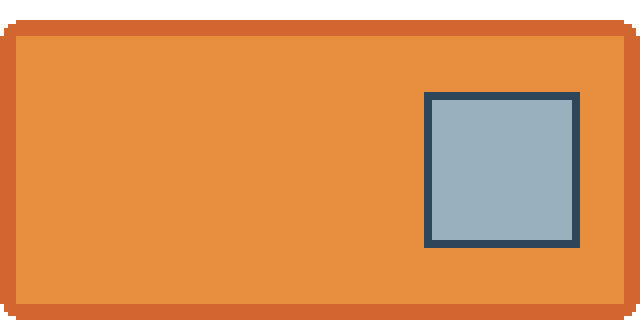
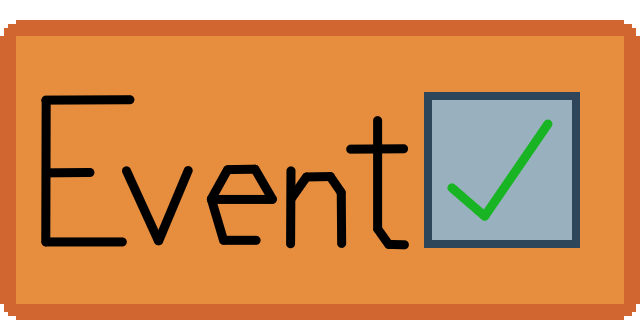
Fixed event button
Restructured event button and round button
Added text to event button and round button

Changed region(s): [[0.0625, 0.2812, 0.6562, 0.7812], [0.6875, 0.375, 0.875, 0.6875]]

diff --git a/EventButton.java b/EventButton.java
@@ -8,9 +8,8 @@ import greenfoot.*; // (World, Actor, GreenfootImage, Greenfoot and MouseInfo)
  */
 public class EventButton extends Button {
   boolean ifDiscbetion = true;
-  private GreenfootImage unclickedEventButton =
-      new GreenfootImage("Button/eventButton_unpressed.png");
-  private GreenfootImage clickedEventButton = new GreenfootImage("Button/eventButton_pressed.png");
+  private GreenfootImage unclickedEventButton;
+  private GreenfootImage clickedEventButton;
 
   /**
    * Act - do whatever the EventButton wants to do. This method is called whenever the 'Act' or
@@ -18,15 +17,26 @@ public class EventButton extends Button {
    */
   public EventButton() {
     super(true);
+    toggleState = false;
+    clickedEventButton = new GreenfootImage("button/eventButton_pressed.png");;
+    unclickedEventButton = new GreenfootImage("button/eventButton_unpressed.png");
+    clickedEventButton.scale(216, 100);
+    unclickedEventButton.scale(216, 100);
+    setImage(unclickedEventButton);
   }
 
   public void act() {
     if (Greenfoot.mouseClicked(this)) {
-      clickedEventButton.scale(320, 160);
-      setImage(clickedEventButton);
-    } else {
-      unclickedEventButton.scale(320, 160);
+      toggle();
+    }
+  }
+  public void toggle() {
+    if (toggleState) {
+      toggleState = false;
       setImage(unclickedEventButton);
+    } else {
+      toggleState = true;
+      setImage(clickedEventButton);
     }
   }
 }

diff --git a/Settings.java b/Settings.java
@@ -17,6 +17,7 @@ public class Settings extends World {
   Label round = new Label("",24);
   Button nextBtn = new NextButton();
   private EventButton eventButton = new EventButton();
+  private RoundButton roundButton = new RoundButton();
   private int[] btnY = {180, 300, 420};
   private int dir;
   private int buttonCount = 6;
@@ -103,15 +104,8 @@ public class Settings extends World {
   }
   
   public void spawnSettingButton(){
-      addObject(eventButton, getWidth()/6, getHeight()-60);
-  }
-
-  public void cheakEventButton() {
-    if (eventButton.checkClicked()) {
-      event = !event;
-    } else if (eventButton.openDis(eventButton.cheakDis())) {
-      addObject(test, getWidth() / 2, getHeight() / 2);
-    }
+      addObject(eventButton, getWidth()/4-150, getHeight()-180);
+      addObject(roundButton, getWidth()/4+80, getHeight()-180);
   }
 
   public void checkPressedButton() {
@@ -152,6 +146,12 @@ public class Settings extends World {
         }
       }
     }
+    if (eventButton.checkClicked()) {
+      event = !event;
+    } else if (eventButton.openDis(eventButton.cheakDis())) {
+      addObject(test, getWidth() / 2, getHeight() / 2);
+    }
+    
     if (nextBtn != null && nextBtn.checkClicked() && selectCount <= 6 && selectCount >= 3) {
       MainWorld main =
           new MainWorld(

diff --git a/RoundButton.java b/RoundButton.java
@@ -12,22 +12,16 @@ public class RoundButton extends Button {
    * 'Run' button gets pressed in the environment.
    */
   boolean ifDiscbetion = true;
-
-  private GreenfootImage unclickedEventButton =
-      new GreenfootImage("Button/roundButton_unpressed.png");
-  private GreenfootImage clickedEventButton = new GreenfootImage("Button/roundButton_pressed.png");
+  private boolean holdState = false;
+  private GreenfootImage clickedEventButton;
+  private GreenfootImage unclickedEventButton;
 
   public RoundButton() {
     super(true);
-  }
-
-  public void act() {
-    if (Greenfoot.mouseClicked(this)) {
-      clickedEventButton.scale(320, 160);
-      setImage(clickedEventButton);
-    } else {
-      unclickedEventButton.scale(320, 160);
-      setImage(unclickedEventButton);
-    }
+    clickedEventButton = new GreenfootImage("button/roundButton_pressed.png");
+    unclickedEventButton = new GreenfootImage("button/roundButton_unpressed.png");
+    clickedEventButton.scale(216, 100);
+    unclickedEventButton.scale(216, 100);
+    setImage(unclickedEventButton);
   }
 }

diff --git a/TitleScreen.java b/TitleScreen.java
@@ -15,7 +15,7 @@ public class TitleScreen extends World {
   public TitleScreen() {
     // Create a new world with 600x400 cells with a cell size of 1x1 pixels.
     super(1280, 720, 1);
-    bgm.setVolume(80);
+    bgm.setVolume(65);
 
     addObject(titleLabel, getWidth() / 2, getHeight() / 2 - 60);
     addObject(startLabel, getWidth() / 2, getHeight() / 2 + 60);

diff --git a/Button.java b/Button.java
@@ -50,7 +50,7 @@ public class Button extends Actor {
     } else {
       toggleState = true;
     }
-}
+  }
   public boolean openDis(boolean ifDiscbetion) {
     if (ifDiscbetion && Greenfoot.mouseClicked(this) && m.getButton() == 3) {
       return true;
